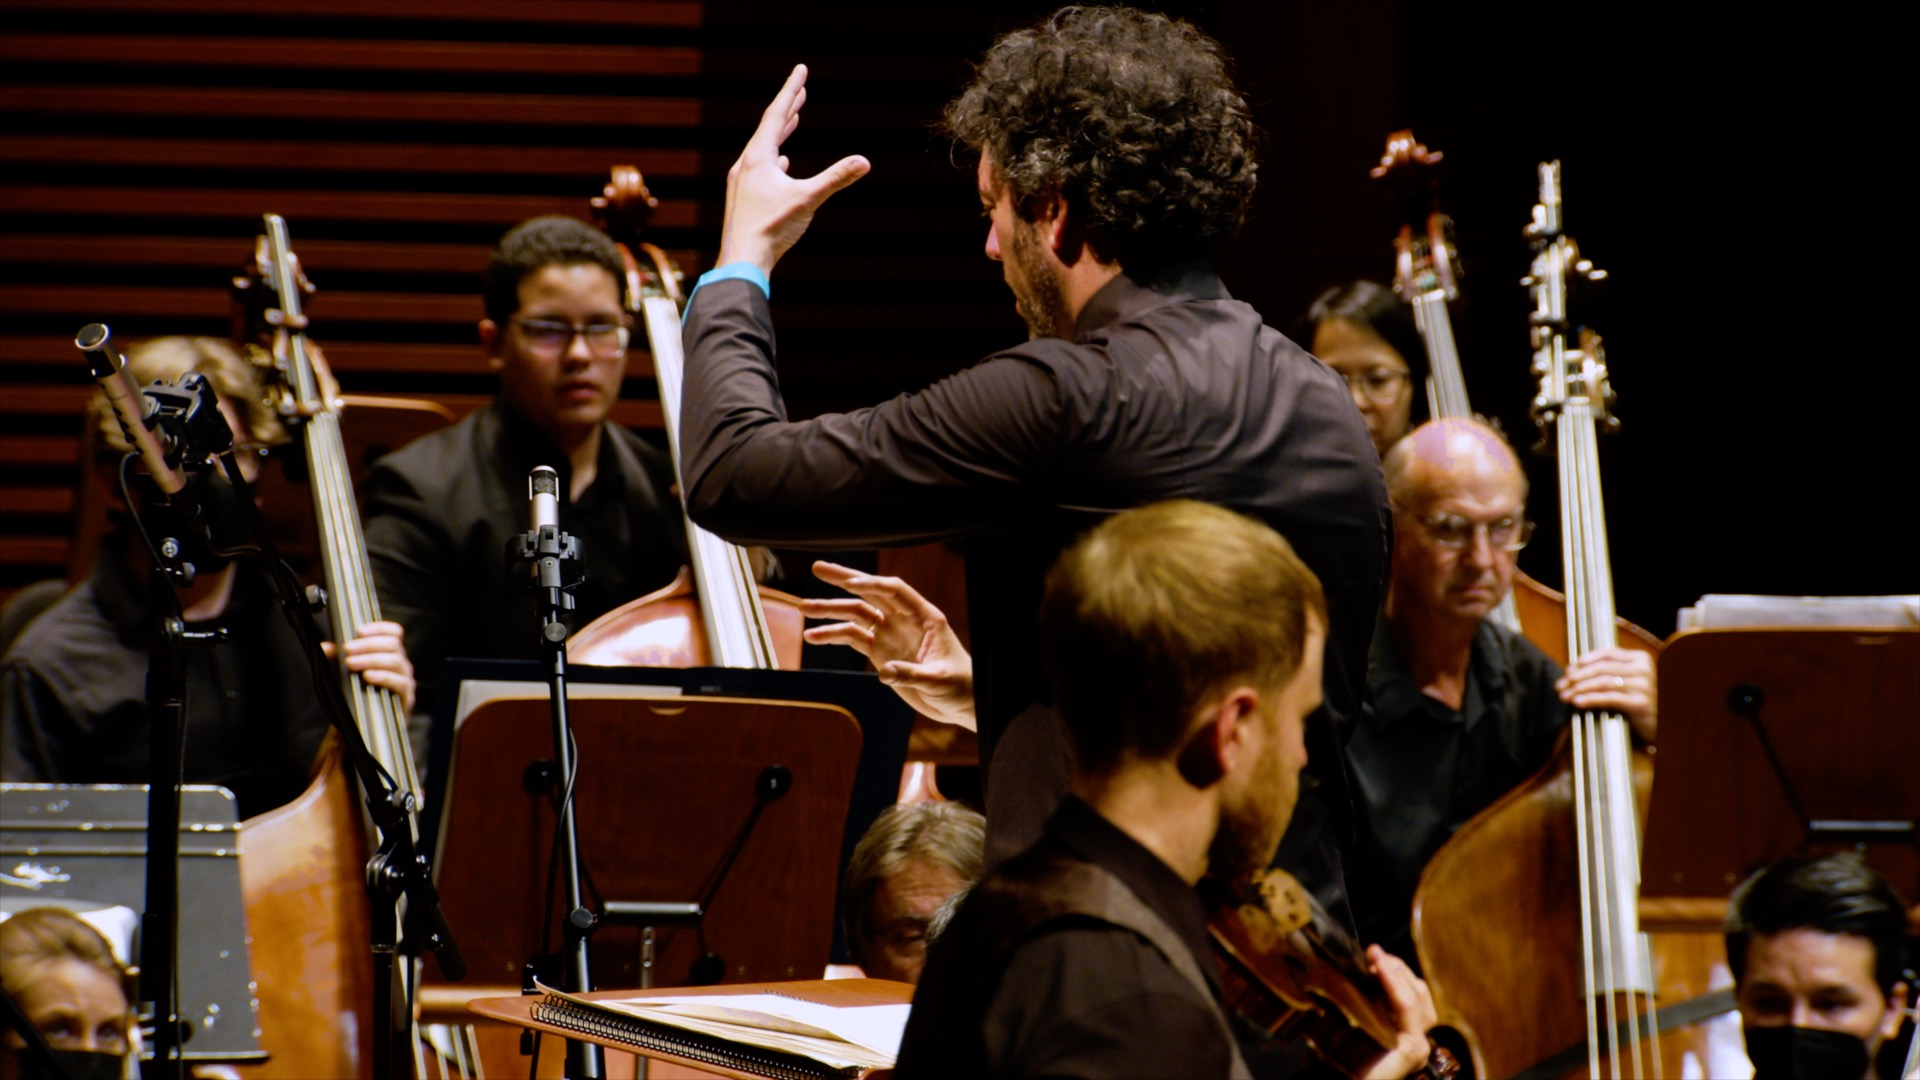
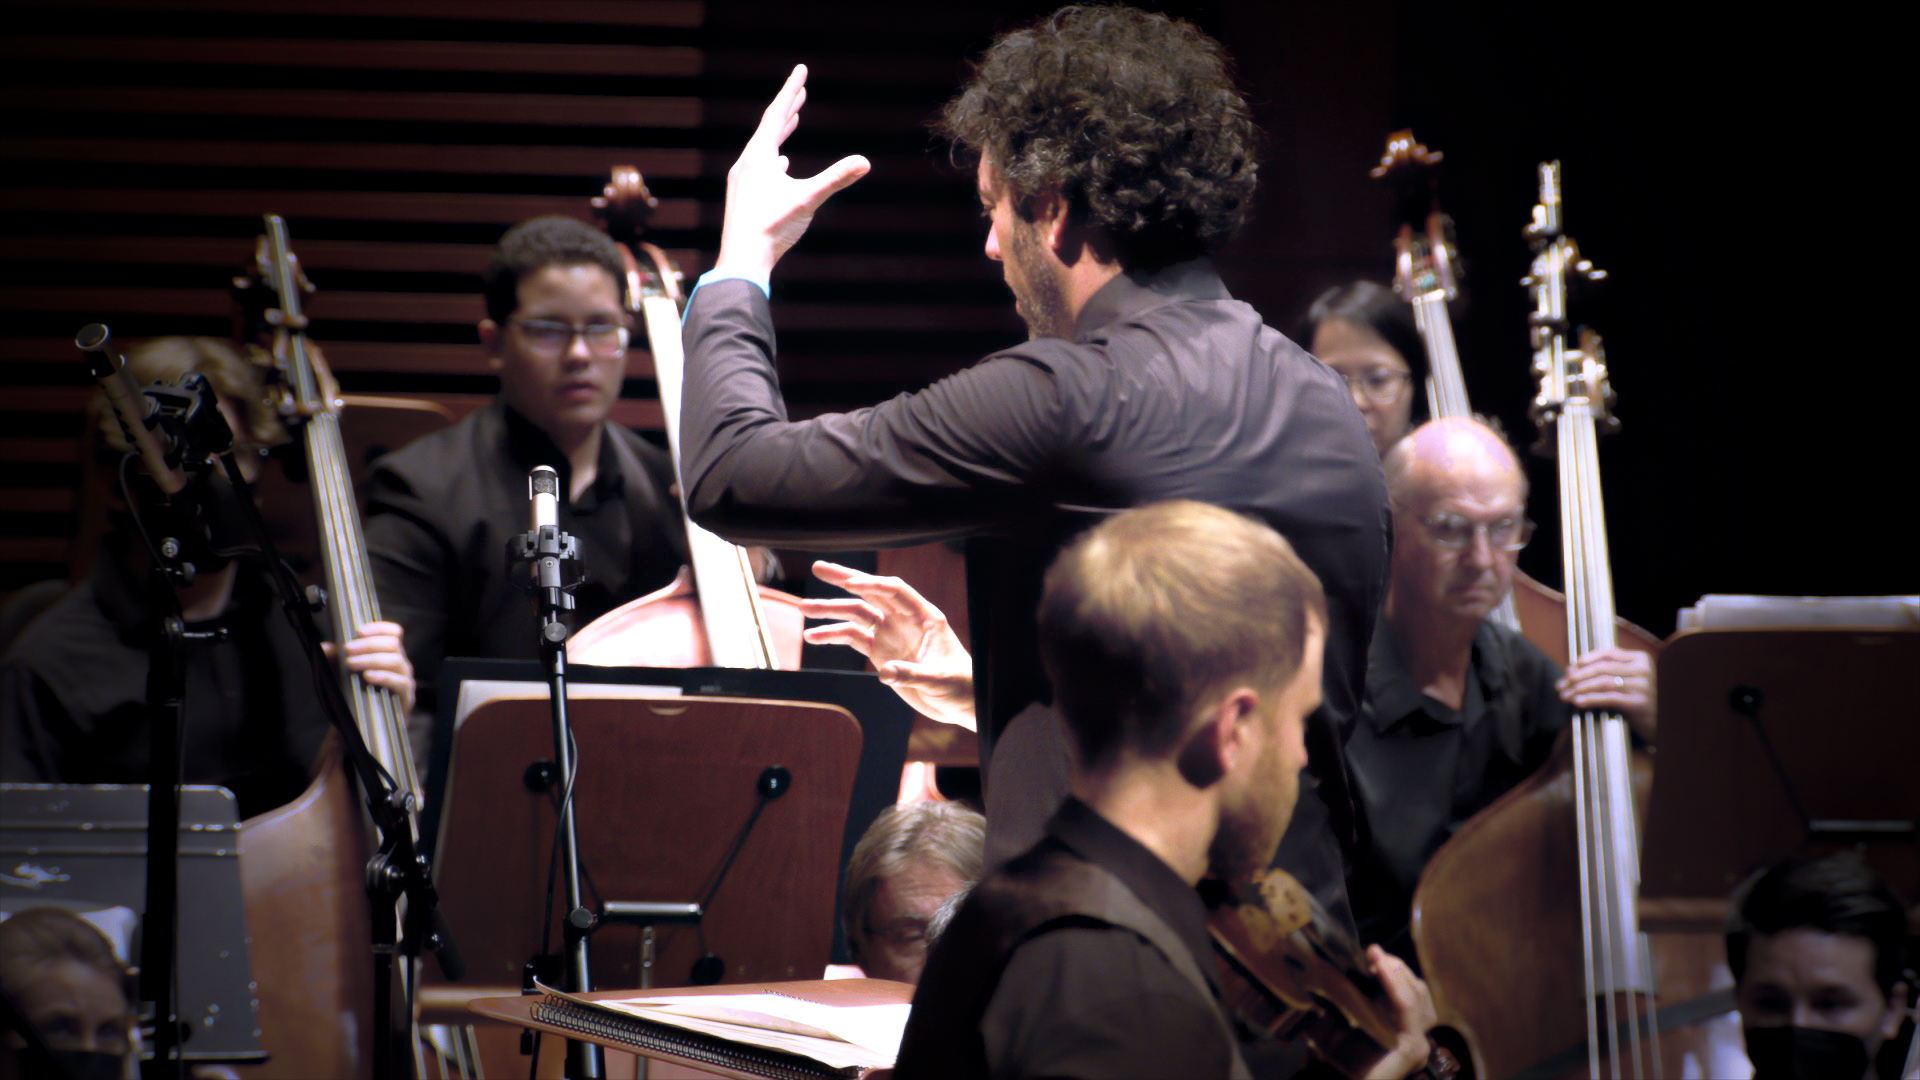
About section: fix text overflow, swap Gallery/Experience order, shrink Makers top padding, update carousel images, rename sections

diff --git a/src/app/components/AboutSection.tsx b/src/app/components/AboutSection.tsx
@@ -1,4 +1,3 @@
-import { motion, useScroll, useTransform } from 'motion/react';
 import { useRef } from 'react';
 import { useIsMobile } from '../hooks/useIsMobile';
 import aboutImage from '../../../assets/JeremyEric.jpeg';
@@ -6,63 +5,77 @@ import aboutImage from '../../../assets/JeremyEric.jpeg';
 export function AboutSection() {
   const ref = useRef(null);
   const isMobile = useIsMobile();
-  const { scrollYProgress } = useScroll({
-    target: ref,
-    offset: ["start end", "end start"]
-  });
-
-  const textY = useTransform(scrollYProgress, [0, 1], isMobile ? [20, -20] : [40, -40]);
 
   return (
     <section
       ref={ref}
       id="about-stones-river"
-      className="relative w-full flex items-center py-12 md:py-16 lg:py-20 px-6 md:px-12 lg:px-20"
+      className="relative w-full overflow-hidden"
     >
-      {/* Semi-transparent overlay for text readability against blue background */}
-      <div className="absolute inset-0 bg-black/40 pointer-events-none" />
+      {/* Desktop: 50/50 layout — image determines height, text absolutely positioned */}
+      <div className="hidden md:block relative">
+        {/* Image takes left half, determines section height */}
+        <img
+          src={aboutImage}
+          alt="Jeremy Kittel and Eric Jacobsen"
+          className="w-1/2 h-auto block"
+        />
 
-      <motion.div
-        style={{ y: textY }}
-        className="relative z-10 max-w-5xl mx-auto w-full"
-      >
-        <h2 className="text-4xl md:text-5xl text-parchment mb-8">
-          About Stones River
-        </h2>
+        {/* Text overlay on right half — all content must fit within image height */}
+        <div className="absolute top-0 right-0 w-1/2 h-full flex flex-col justify-center px-8 lg:px-12">
+          <h2 className="text-xl lg:text-2xl text-parchment mb-2 text-center font-light">
+            About Stones River
+          </h2>
 
-        <div className="text-parchment/90 leading-[1.8] text-base md:text-lg">
-          {/* Image floated right so text wraps around it */}
-          <img
-            src={aboutImage}
-            alt="Stones River recording session"
-            className="hidden md:block float-right ml-8 mb-6 w-[50%] max-w-[480px] h-auto object-contain rounded-lg"
-          />
+          <div className="text-parchment/85 leading-[1.35] text-[8.5px] lg:text-[10px] xl:text-[11px] space-y-1">
+            <p>
+              Stones River is a collaborative album between composer and fiddler Jeremy Kittel, Grammy-nominated conductor Eric Jacobsen (The Knights, Brooklyn Rider), and the Orlando Philharmonic Orchestra.
+            </p>
 
-          <p className="mb-6">
-            Stones River is a collaborative album from acclaimed violinist and composer Jeremy Kittel, Grammy-nominated conductor Eric Jacobsen, and the Orlando Philharmonic Orchestra, releasing July 3, 2026.
-          </p>
+            <p>
+              The project began when Eric and the OPO invited Jeremy to compose a new work drawing from early American music — spanning the Revolutionary War through the Civil War. The result was Stones River, a piece that weaves together melodies from across that era into a contemporary, almost dream-like whole, led throughout by a solo fiddle.
+            </p>
 
-          <p className="mb-6">
-            The project was born when Kittel was invited by Jacobsen and the OPO to compose a piece drawing from early American music — from the Revolutionary War through the Civil War. The result is a sweeping musical landscape that weaves together folk traditions, Celtic and old-time influences, and contemporary classical sensibilities, led throughout by Kittel's signature solo fiddle voice.
-          </p>
+            <p>
+              The album's title refers to the Battle of Stones River in 1862. On the night before the conflict, military bands from opposing sides were camped close enough to engage in a kind of musical duel — and remarkably, the two groups eventually united across battle lines to play the beloved song "Home Sweet Home" together.
+            </p>
 
-          <p className="mb-6">
-            The album's title is a nod to the 1862 Battle of Stones River, where, on the eve of the conflict, military bands from opposing sides camped close enough to engage in a spontaneous musical duel. Remarkably, the two groups eventually united across battle lines to perform the nostalgic and widely cherished song, "Home Sweet Home." As Kittel drew from these melodies, he found himself asking deeper questions: what is the meaning of this country? What are its ideals — and do we actively live up to them?
-          </p>
+            <p>
+              After a successful premiere, plans to record eventually followed. The album brings together Jacobsen's conducting and the Philharmonic's playing with Kittel's composing and fiddling across a program that spans the centuries. Also featured: mandolinist Josh Pinkham stepping in for the harpsichord role in a movement of Vivaldi, flutist Colleen Blagov on an orchestral version of Kittel's composition "Pando," and Gottschalk's underrecognized Symphony No. 2 — written just after the Civil War and similarly steeped in early American themes.
+            </p>
 
-          <p className="mb-6 italic">
-            "There's something extraordinary about hearing these melodies bloom inside a full orchestra," says Kittel. "Eric and the musicians of the Orlando Philharmonic brought such warmth and imagination to the music. It felt like the pieces were finally arriving at the home they'd been searching for."
-          </p>
+            <p>
+              The album's visual identity comes from painter Rush Baker IV, whose recent series reframes Civil War scenes through abstraction of the massive Cyclorama paintings of the 1880s. His work, brought to the project by designer Ben Tousley, mirrors what the music does: blurring past and present, memory and imagination, American history and its ongoing meaning.
+            </p>
 
-          <p className="mb-6">
-            Together, Kittel, Jacobsen, and the Orlando Philharmonic have created something at once cinematic, soulful, and quietly profound — music that reaches across generations, and invites listeners into a vivid world alive with possibility.
-          </p>
-
-          <p>
-            Stones River is available on all digital platforms and in physical formats on July 3, 2026.
-          </p>
+            <p>
+              Because Stones River draws so deeply on melodies from early America, the music carries an ineffable sense of voices from the past reaching toward the present — and the questions those voices tend to raise.
+            </p>
+          </div>
         </div>
-      </motion.div>
+      </div>
+
+      {/* Mobile: stacked layout */}
+      <div className="md:hidden">
+        <img
+          src={aboutImage}
+          alt="Jeremy Kittel and Eric Jacobsen"
+          className="w-full h-auto block"
+        />
+        <div className="px-6 py-6">
+          <h2 className="text-2xl text-parchment mb-4 text-center font-light">
+            About Stones River
+          </h2>
+          <div className="text-parchment/90 leading-[1.6] text-sm space-y-3">
+            <p>Stones River is a collaborative album between composer and fiddler Jeremy Kittel, Grammy-nominated conductor Eric Jacobsen (The Knights, Brooklyn Rider), and the Orlando Philharmonic Orchestra.</p>
+            <p>The project began when Eric and the OPO invited Jeremy to compose a new work drawing from early American music — spanning the Revolutionary War through the Civil War. The result was Stones River, a piece that weaves together melodies from across that era into a contemporary, almost dream-like whole, led throughout by a solo fiddle.</p>
+            <p>The album's title refers to the Battle of Stones River in 1862. On the night before the conflict, military bands from opposing sides were camped close enough to engage in a kind of musical duel — and remarkably, the two groups eventually united across battle lines to play the beloved song "Home Sweet Home" together.</p>
+            <p>After a successful premiere, plans to record eventually followed. The album brings together Jacobsen's conducting and the Philharmonic's playing with Kittel's composing and fiddling across a program that spans the centuries.</p>
+            <p>The album's visual identity comes from painter Rush Baker IV, whose recent series reframes Civil War scenes through abstraction of the massive Cyclorama paintings of the 1880s.</p>
+            <p>Because Stones River draws so deeply on melodies from early America, the music carries an ineffable sense of voices from the past reaching toward the present — and the questions those voices tend to raise.</p>
+          </div>
+        </div>
+      </div>
     </section>
   );
 }

diff --git a/src/app/components/InterviewSection.tsx b/src/app/components/InterviewSection.tsx
@@ -2,6 +2,7 @@ import { motion, useScroll, useTransform } from 'motion/react';
 import { useRef } from 'react';
 import { Youtube } from 'lucide-react';
 import { useIsMobile } from '../hooks/useIsMobile';
+import experienceBg from '../../../assets/Experience Section Visual Reference.png';
 
 export function InterviewSection() {
   const ref = useRef(null);
@@ -11,54 +12,59 @@ export function InterviewSection() {
     offset: ["start end", "end start"]
   });
 
-  const videoY = useTransform(scrollYProgress, [0, 1], isMobile ? [50, -50] : [100, -100]);
+  const videoY = useTransform(scrollYProgress, [0, 1], isMobile ? [20, -20] : [40, -40]);
 
   return (
     <section
       ref={ref}
-      id="video"
-      className="relative w-full flex items-center justify-center py-16 px-6 overflow-hidden"
+      id="experience"
+      className="relative w-full overflow-hidden"
     >
-      {/* Semi-transparent overlay for text readability against blue background */}
-      <div className="absolute inset-0 bg-zinc-900/50 pointer-events-none" />
+      {/* Background image — shows full dimensions */}
+      <div className="relative w-full">
+        <img
+          src={experienceBg}
+          alt=""
+          className="w-full h-auto block"
+          aria-hidden="true"
+        />
 
-      <div className="relative z-10 w-full max-w-5xl mx-auto">
-        <motion.div
-          style={{ y: videoY }}
-          className="w-full"
-          initial={{ opacity: 0, y: 30 }}
-          whileInView={{ opacity: 1, y: 0 }}
-          transition={{ duration: 0.8 }}
-          viewport={{ once: true }}
-        >
-          <VideoPlaceholder number={1} />
-        </motion.div>
+        {/* YouTube embed overlay — positioned to the right */}
+        <div className="absolute inset-0 flex items-center justify-end pr-6 md:pr-12 lg:pr-20">
+          <motion.div
+            style={{ y: videoY }}
+            className="w-full max-w-md md:max-w-xl lg:max-w-3xl"
+            initial={{ opacity: 0, y: 30 }}
+            whileInView={{ opacity: 1, y: 0 }}
+            transition={{ duration: 0.8 }}
+            viewport={{ once: true }}
+          >
+            <VideoPlaceholder />
+          </motion.div>
+        </div>
       </div>
     </section>
   );
 }
 
-function VideoPlaceholder({ number }: { number: number }) {
+function VideoPlaceholder() {
   return (
-    <div className="relative aspect-video w-full bg-warm-black/10 border-2 border-dark-brown/20
-                    shadow-[0_15px_50px_rgba(26,20,16,0.25)] overflow-hidden group cursor-pointer
-                    hover:border-brass/60 hover:shadow-[0_15px_50px_rgba(184,134,11,0.2)]
-                    transition-all duration-300">
-      {/* YouTube embed placeholder
-          TODO: Replace with actual YouTube embed iframe.
-          Expected value: YouTube video URL provided by client (e.g., https://www.youtube.com/embed/VIDEO_ID)
-          Source: Client will provide interview video URLs for embedding */}
-      <div className="absolute inset-0 flex items-center justify-center bg-gradient-to-br from-warm-black/70 to-dark-brown/70">
+    <div className="relative aspect-video w-full bg-black/30 border-2 border-white/20
+                    shadow-[0_15px_50px_rgba(0,0,0,0.4)] overflow-hidden group cursor-pointer rounded-lg
+                    hover:border-white/40 hover:shadow-[0_15px_50px_rgba(0,0,0,0.6)]
+                    transition-all duration-300 backdrop-blur-sm">
+      {/* YouTube embed placeholder */}
+      <div className="absolute inset-0 flex items-center justify-center">
         <div className="flex flex-col items-center space-y-4 transition-transform duration-300 group-hover:scale-110">
-          <Youtube className="w-14 h-14 text-brass" strokeWidth={1.5} />
-          <span className="text-parchment text-sm tracking-wide">
+          <Youtube className="w-12 h-12 text-white/90" strokeWidth={1.5} />
+          <span className="text-white/80 text-sm tracking-wide">
             Stones River Teaser
           </span>
         </div>
       </div>
 
       {/* Hover effect */}
-      <div className="absolute inset-0 bg-brass/0 group-hover:bg-brass/5 transition-colors duration-300" />
+      <div className="absolute inset-0 bg-white/0 group-hover:bg-white/5 transition-colors duration-300" />
     </div>
   );
 }

diff --git a/src/app/components/ImageCarouselSection.tsx b/src/app/components/ImageCarouselSection.tsx
@@ -9,20 +9,18 @@ import {
 } from './ui/carousel';
 
 // Static image imports from assets/Final Carousel Images/
-import carouselImage1 from '../../../assets/Final Carousel Images/Carousel 1-4.jpg';
-import carouselImage2 from '../../../assets/Final Carousel Images/Carousel 2.jpg';
-import carouselImage3 from '../../../assets/Final Carousel Images/2.png';
-import carouselImage4 from '../../../assets/Final Carousel Images/3.jpg';
-import carouselImage5 from '../../../assets/Final Carousel Images/4.jpg';
-import carouselImage6 from '../../../assets/Final Carousel Images/5.jpeg';
+import carouselImage1 from '../../../assets/Final Carousel Images/1.jpg';
+import carouselImage2 from '../../../assets/Final Carousel Images/2.png';
+import carouselImage3 from '../../../assets/Final Carousel Images/3.jpg';
+import carouselImage4 from '../../../assets/Final Carousel Images/4.jpg';
+import carouselImage5 from '../../../assets/Final Carousel Images/5.jpeg';
 
 const carouselImages = [
-  { src: carouselImage1, filename: 'Carousel 1-4.jpg' },
-  { src: carouselImage2, filename: 'Carousel 2.jpg' },
-  { src: carouselImage3, filename: '2.png' },
-  { src: carouselImage4, filename: '3.jpg' },
-  { src: carouselImage5, filename: '4.jpg' },
-  { src: carouselImage6, filename: '5.jpeg' },
+  { src: carouselImage1, filename: '1.jpg' },
+  { src: carouselImage2, filename: '2.png' },
+  { src: carouselImage3, filename: '3.jpg' },
+  { src: carouselImage4, filename: '4.jpg' },
+  { src: carouselImage5, filename: '5.jpeg' },
 ];
 
 const AUTOPLAY_INTERVAL = 5000; // 5 seconds
@@ -144,7 +142,7 @@ export function ImageCarouselSection() {
             {carouselImages.map((image, index) => (
               <CarouselItem key={index}>
                 {imageErrors[index] ? (
-                  <div className="w-full h-[80vh] flex flex-col items-center justify-center bg-black">
+                  <div className="w-full h-[100vh] flex flex-col items-center justify-center bg-zinc-900">
                     <ImageIcon className="w-12 h-12 text-white/50 mb-3" />
                     <span className="text-white/60 text-sm">{image.filename}</span>
                   </div>
@@ -152,7 +150,7 @@ export function ImageCarouselSection() {
                   <img
                     src={image.src}
                     alt={`Stones River project image ${index + 1}`}
-                    className="w-full h-[80vh] object-contain bg-black"
+                    className="w-full h-[100vh] object-cover"
                     onError={() => handleImageError(index)}
                   />
                 )}

diff --git a/src/app/components/BiosSection.tsx b/src/app/components/BiosSection.tsx
@@ -119,7 +119,7 @@ export function BiosSection() {
     <section
       ref={ref}
       id="meet-the-makers"
-      className="relative w-full py-16 md:py-24 lg:py-32 px-6 md:px-12 lg:px-20"
+      className="relative w-full pt-8 pb-16 md:pt-12 md:pb-24 lg:pt-16 lg:pb-32 px-6 md:px-12 lg:px-20"
     >
       {/* Semi-transparent overlay for text readability */}
       <div className="absolute inset-0 bg-black/30 pointer-events-none" />
@@ -128,8 +128,8 @@ export function BiosSection() {
         style={{ y: contentY }}
         className="relative z-10 max-w-[1400px] mx-auto"
       >
-        <h2 className="text-4xl md:text-5xl lg:text-6xl text-white font-light tracking-tight text-center mb-16 md:mb-20">
-          Meet The Makers
+        <h2 className="text-4xl md:text-5xl lg:text-6xl text-white font-light tracking-tight text-center mb-10 md:mb-14">
+          The Makers
         </h2>
 
         <div className="grid grid-cols-1 lg:grid-cols-3 gap-10 lg:gap-12">

diff --git a/src/app/components/Navbar.tsx b/src/app/components/Navbar.tsx
@@ -8,11 +8,11 @@ interface NavItem {
 
 const navItems: NavItem[] = [
   { label: 'Home', href: '#home' },
-  { label: 'About Stones River', href: '#about-stones-river' },
-  { label: 'View the Gallery', href: '#view-the-gallery' },
-  { label: 'Meet the Makers', href: '#meet-the-makers' },
-  { label: 'Video', href: '#video' },
-  { label: 'Preorder Stones River', href: '#preorder-stones-river' },
+  { label: 'About', href: '#about-stones-river' },
+  { label: 'Experience', href: '#experience' },
+  { label: 'The Makers', href: '#meet-the-makers' },
+  { label: 'Gallery', href: '#view-the-gallery' },
+  { label: 'Preorder', href: '#preorder-stones-river' },
 ];
 
 export function Navbar() {

diff --git a/src/app/components/SectionDots.tsx b/src/app/components/SectionDots.tsx
@@ -7,11 +7,11 @@ interface SectionInfo {
 
 const sections: SectionInfo[] = [
   { id: 'home', label: 'Home' },
-  { id: 'about-stones-river', label: 'About Stones River' },
-  { id: 'view-the-gallery', label: 'View the Gallery' },
-  { id: 'meet-the-makers', label: 'Meet the Makers' },
-  { id: 'video', label: 'Video' },
-  { id: 'preorder-stones-river', label: 'Preorder Stones River' },
+  { id: 'about-stones-river', label: 'About' },
+  { id: 'experience', label: 'Experience' },
+  { id: 'meet-the-makers', label: 'The Makers' },
+  { id: 'view-the-gallery', label: 'Gallery' },
+  { id: 'preorder-stones-river', label: 'Preorder' },
 ];
 
 export function SectionDots() {

diff --git a/src/app/App.tsx b/src/app/App.tsx
@@ -49,10 +49,10 @@ export default function App() {
           <Navbar />
         </div>
         <AboutSection />
+        <InterviewSection />
+        <BiosSection />
         <ImageCarouselSection />
         {siteConfig.SHOW_LISTEN_NOW && <ListenNowSection />}
-        <BiosSection />
-        <InterviewSection />
         <PreorderSection />
         <Footer />
       </div>
